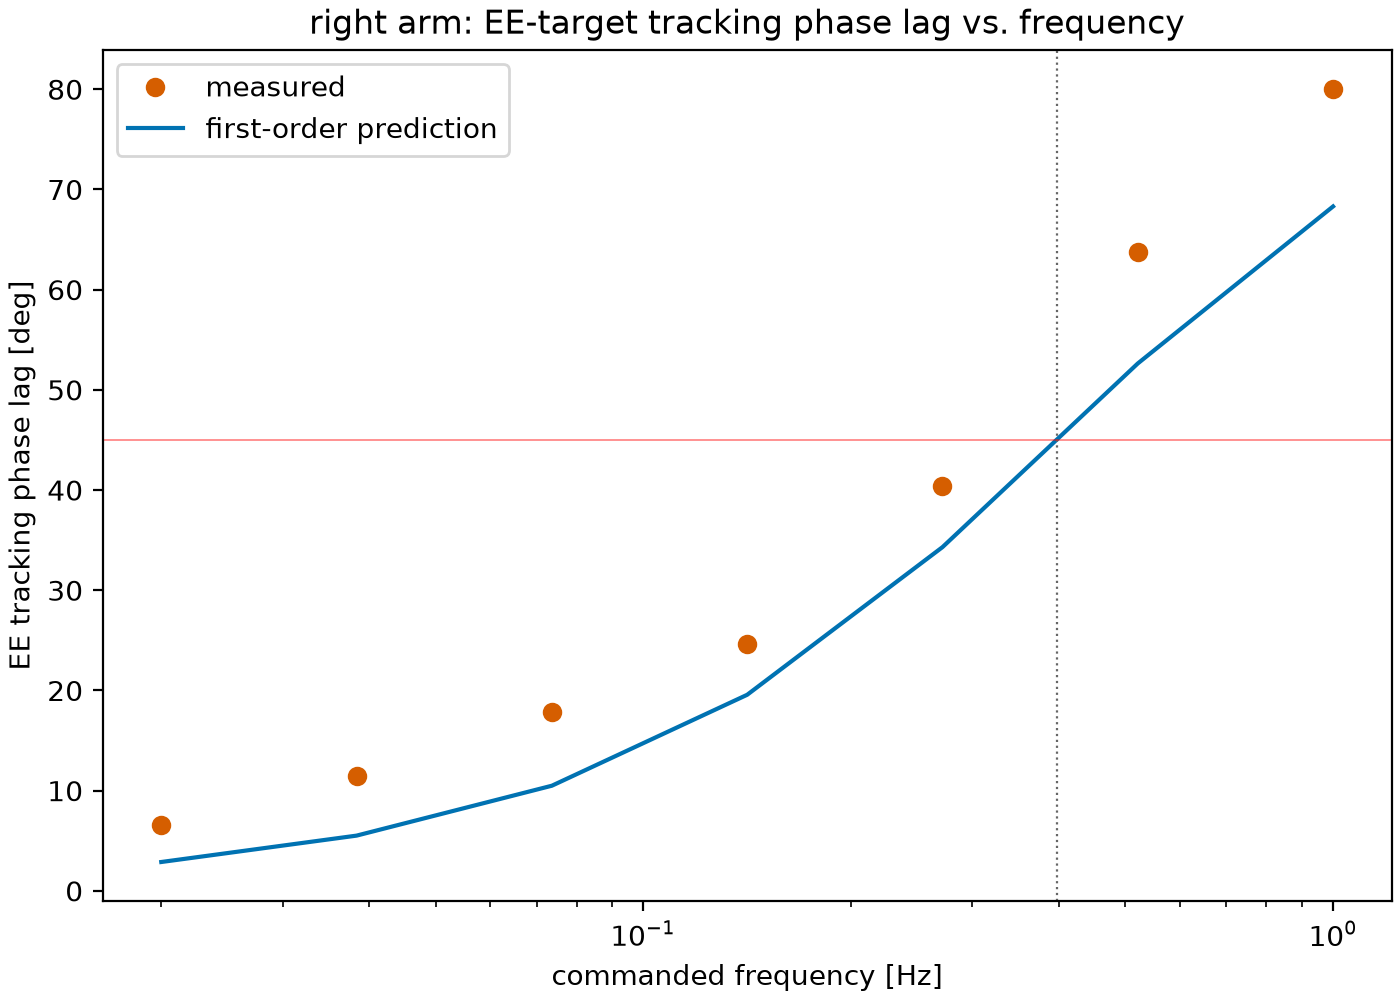
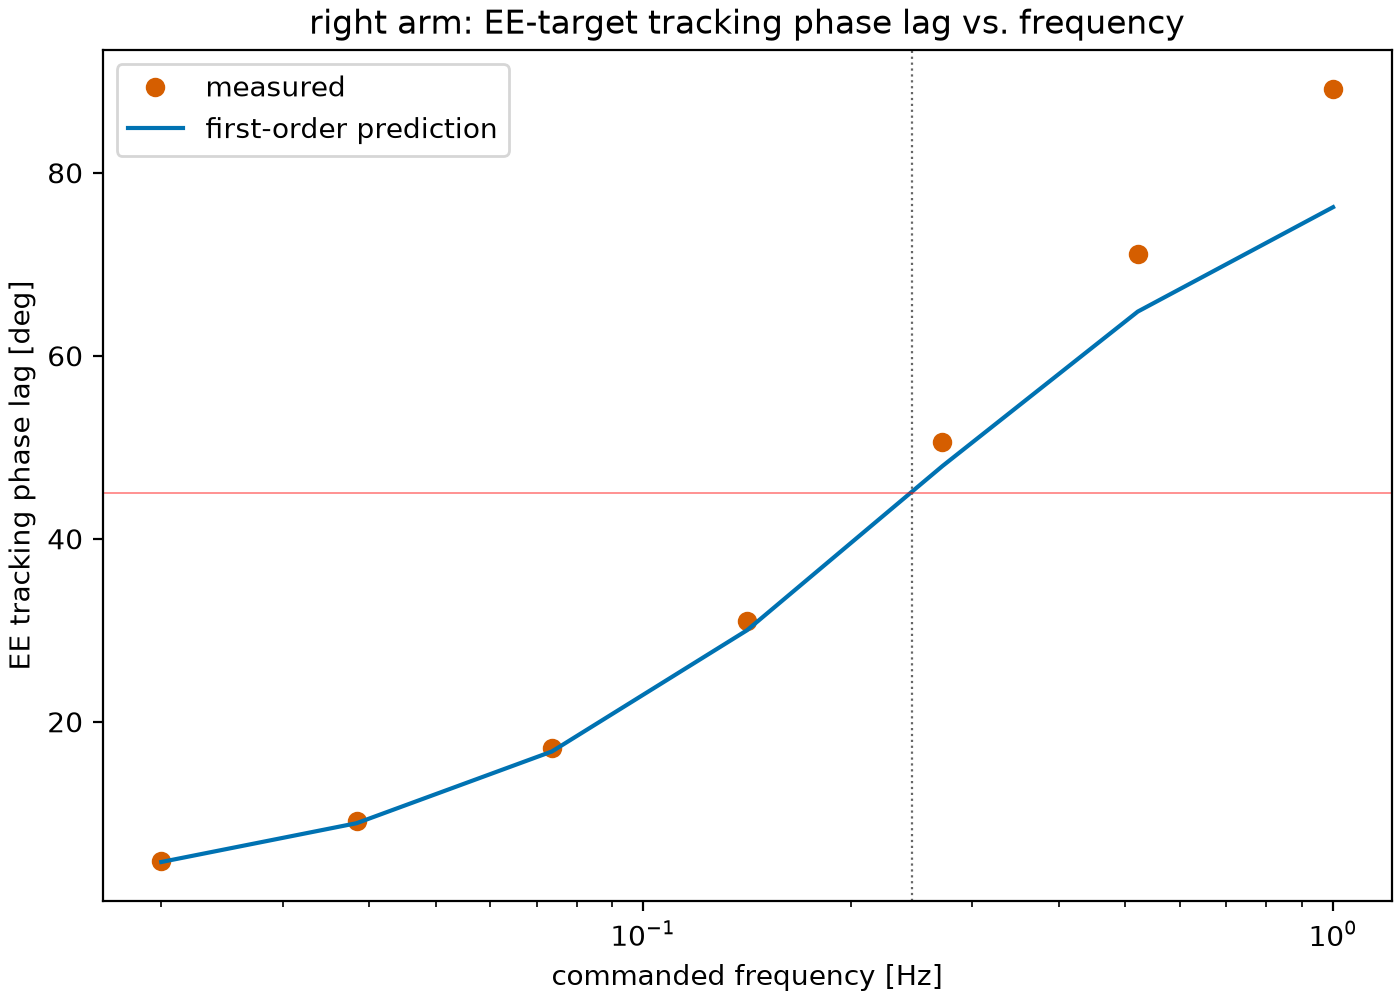
Bandwidth sweep: feasible FK anchors; regenerate at restored gains
The sweep anchored its sinusoid on the desired_pos display anchors,
which are infeasible from HOME once the orientation channel is active:
joint_2 pins at its ctrl limit at the -x extreme (~110 mm peak, 10 deg
orientation error), so low-frequency points measured limit clipping
(18.7 mm at 0.02 Hz vs 4.1 predicted), not loop bandwidth. The old
figures hid this because KP_ROT was 0. Anchor at each arm's own FK
pose instead — the feasible-by-construction pattern the closed-loop
tests already use.

Regenerated at the restored gains (KP_eff = 1.54 rad/s): measured vs
predicted now 4.16/4.07 mm (0.02 Hz) through 47.6/45.3 mm (0.52 Hz),
lag matching to mid-band. 40/40 tests pass.

diff --git a/analysis/bandwidth_sweep.py b/analysis/bandwidth_sweep.py
@@ -25,8 +25,8 @@ import matplotlib.pyplot as plt
 import mujoco
 import numpy as np
 
-from controller import desired_pos, frames, servo
-from sim import target_motion, world
+from controller import frames, servo
+from sim import target_motion, targets, world
 
 OUT = Path("analysis/output")
 
@@ -53,13 +53,24 @@ C_PRED = "#0072B2"
 
 def _reset_to_home():
     """Base static throughout (no sim.motion calls): arms to their home
-    joint config, desired_pos.apply() resolves the static targets,
-    target_motion.init_home() captures them as the sinusoid's anchor."""
+    joint config, targets anchored at each arm's own FK pose (feasible
+    by construction — the same pattern as the closed-loop tests),
+    target_motion.init_home() captures them as the sinusoid's anchor.
+
+    Not desired_pos.apply(): its display anchors are infeasible from
+    HOME with the orientation channel active (joint_2 pins at its ctrl
+    limit at the -x extreme of the sweep, ~110 mm peak error), so the
+    sweep would measure limit clipping, not loop bandwidth."""
     mujoco.mj_resetData(world.model, world.data)
     for side in world.SIDES:
         world.data.qpos[frames.qpos_adrs[side]] = HOME
     mujoco.mj_forward(world.model, world.data)
-    desired_pos.apply()
+    for side in world.SIDES:
+        pos, rot = frames.ee_pose(side)
+        quat = np.zeros(4)
+        mujoco.mju_mat2Quat(quat, rot.flatten())
+        targets.set_target(side, pos)
+        targets.set_target_quat(side, quat)
     target_motion.init_home()
     servo.init_ctrl()
 
